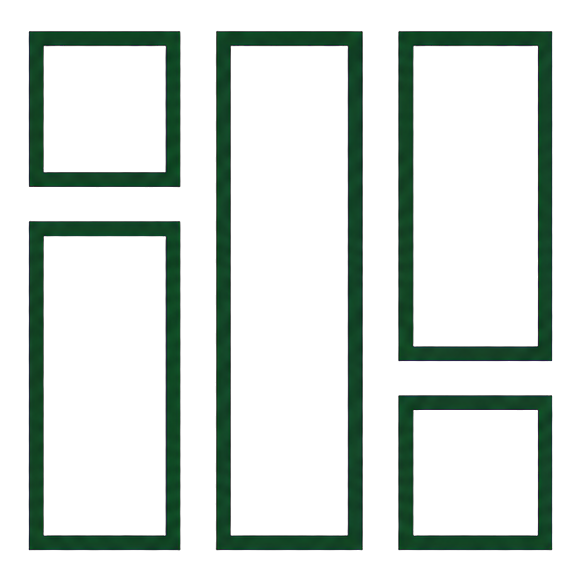
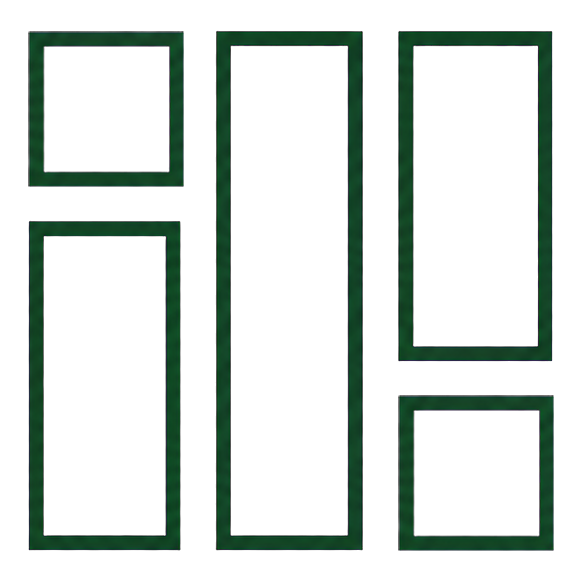
feat(homepage): refine brand education and hardware hero

Changed region(s): [[0.031, 0.031, 0.3408, 0.3098], [0.6816, 0.6816, 0.9604, 0.9604]]

diff --git a/app/page.tsx b/app/page.tsx
@@ -2,10 +2,8 @@ import Image from "next/image";
 import Link from "next/link";
 import {
   ArrowRight,
-  Building2,
   Code2,
   Github,
-  GraduationCap,
   Mail,
   Microchip,
   PlayCircle,
@@ -18,6 +16,21 @@ import { SectionHeading } from "@/components/section-heading";
 import { TechnicalVisual } from "@/components/technical-visual";
 import { getFeaturedProjects, getMediaItems, getNotes } from "@/lib/content";
 import { site } from "@/lib/site";
+
+function EducationMark({ school }: { school: "ntu" | "xjtlu" | "liverpool" }) {
+  const marks = {
+    ntu: { src: "/education/ntu-logo.png", width: 839, height: 1079 },
+    xjtlu: { src: "/education/xjtlu-logo.png", width: 56, height: 69 },
+    liverpool: { src: "/education/liverpool-crest.svg", width: 97, height: 145 }
+  } as const;
+  const mark = marks[school];
+
+  return (
+    <span className="mt-0.5 flex h-11 w-9 shrink-0 items-start justify-center" aria-hidden="true">
+      <Image src={mark.src} alt="" width={mark.width} height={mark.height} className="h-11 w-auto object-contain" />
+    </span>
+  );
+}
 
 export default function Home() {
   const featuredProjects = getFeaturedProjects();
@@ -51,36 +64,54 @@ export default function Home() {
               />
             </p>
             <div className="mt-8 h-px w-12 bg-copper" />
-            <div className="mt-8 grid gap-5 text-sm text-ink sm:grid-cols-2">
+            <div className="mt-8 grid gap-5 text-sm text-ink">
               <div className="flex min-w-0 items-start gap-3">
-                <Building2 className="mt-1 shrink-0 text-ink" size={26} strokeWidth={1.7} />
+                <EducationMark school="ntu" />
                 <div className="min-w-0">
                   <p className="font-semibold">
-                    <BilingualText en="Nanyang Technological University, Singapore" zh="新加坡南洋理工大学" />
+                    <BilingualText en="Nanyang Technological University, Singapore" zh="南洋理工大学·新加坡" />
                   </p>
                   <p className="mt-1 min-w-0 break-words text-xs text-graphite">
                     <BilingualText
-                      en="School of Mechanical and Aerospace Engineering · Master of Science (Robotics and Intelligent Systems) · Current student"
-                      zh="机械与航空航天工程学院 · 机器人与智能系统理学硕士在读"
+                      en="Master of Science (Robotics and Intelligent Systems) · Current student"
+                      zh="机器人与智能系统理学硕士 · 在读"
                     />
                   </p>
                 </div>
               </div>
-              <div className="flex min-w-0 items-start gap-3">
-                <GraduationCap className="mt-1 shrink-0 text-ink" size={26} strokeWidth={1.7} />
-                <div className="min-w-0">
-                  <p className="font-semibold">
-                    <BilingualText en="Xi'an Jiaotong-Liverpool University" zh="西交利物浦大学" />
-                  </p>
-                  <p className="mt-1 text-xs text-graphite">
-                    <BilingualText
-                      en="School of Advanced Technology · BEng (Hons) Telecommunications Engineering"
-                      zh="智能工程学院 · 通信工程本科"
-                    />
-                  </p>
-                  <p className="mt-1 text-xs font-semibold text-copper">
-                    <BilingualText en="First Class Honours" zh="一等荣誉学位" />
-                  </p>
+              <div className="border-t border-line pt-4">
+                <p className="mb-4 text-[11px] font-semibold uppercase tracking-[0.16em] text-copper">
+                  <BilingualText en="Dual-degree undergraduate awards" zh="本科双学位" />
+                </p>
+                <div className="grid gap-5 sm:grid-cols-2">
+                  <div className="flex min-w-0 items-start gap-3">
+                    <EducationMark school="xjtlu" />
+                    <div className="min-w-0">
+                      <p className="font-semibold">
+                        <BilingualText en="Xi'an Jiaotong-Liverpool University, China" zh="西交利物浦大学·中国" />
+                      </p>
+                      <p className="mt-1 min-w-0 break-words text-xs text-graphite">
+                        <BilingualText en="BEng Telecommunications Engineering" zh="通信工程工学学士" />
+                      </p>
+                    </div>
+                  </div>
+                  <div className="flex min-w-0 items-start gap-3">
+                    <EducationMark school="liverpool" />
+                    <div className="min-w-0">
+                      <p className="font-semibold">
+                        <BilingualText en="University of Liverpool, United Kingdom" zh="利物浦大学·英国" />
+                      </p>
+                      <p className="mt-1 min-w-0 break-words text-xs text-graphite">
+                        <BilingualText
+                          en="BEng (Hons) Telecommunications Engineering"
+                          zh="通信工程工学学士（荣誉）"
+                        />
+                      </p>
+                      <p className="mt-1 text-xs font-semibold text-copper">
+                        <BilingualText en="First Class Honours" zh="一等荣誉学位" />
+                      </p>
+                    </div>
+                  </div>
                 </div>
               </div>
             </div>

diff --git a/components/technical-visual.tsx b/components/technical-visual.tsx
@@ -7,34 +7,60 @@ type TechnicalVisualProps = {
 
 export function TechnicalVisual({ className }: TechnicalVisualProps) {
   return (
-    <div className={clsx("grid w-full max-w-[calc(100vw-2.5rem)] min-w-0 gap-3 overflow-hidden sm:max-w-full sm:grid-cols-[1fr_0.48fr]", className)}>
-      <div className="relative min-h-[330px] overflow-hidden rounded-lg border border-line bg-chalk">
-        <Image
-          src="/uploads/visuals/circuit-board.svg"
-          alt="Robotic control board illustration"
-          fill
-          priority
-          sizes="(min-width: 1024px) 45vw, 100vw"
-          className="object-cover"
-        />
-      </div>
-      <div className="grid gap-3">
-        <div className="relative min-h-[158px] overflow-hidden rounded-lg border border-line bg-[#13201b]">
+    <div
+      className={clsx(
+        "grid w-full max-w-[calc(100vw-2.5rem)] min-w-0 gap-3 overflow-hidden sm:h-[430px] sm:max-w-full sm:self-center sm:grid-rows-[1.25fr_1fr] lg:h-[520px]",
+        className
+      )}
+    >
+      <div className="grid min-h-[190px] grid-cols-2 gap-3 sm:min-h-0">
+        <div className="relative overflow-hidden rounded-lg border border-line bg-paper">
           <Image
-            src="/uploads/visuals/dashboard.svg"
-            alt="Embedded control dashboard illustration"
+            src="/uploads/hero/embedded-controller-isolated-tight-v3.webp"
+            alt="Embedded controller board with a 0.96-inch OLED display"
             fill
-            sizes="(min-width: 1024px) 20vw, 100vw"
-            className="object-cover"
+            loading="eager"
+            sizes="(min-width: 1024px) 28vw, 50vw"
+            className="object-contain object-center"
           />
         </div>
-        <div className="relative min-h-[158px] overflow-hidden rounded-lg border border-line bg-chalk">
+        <div className="relative overflow-hidden rounded-lg border border-line bg-paper">
           <Image
-            src="/uploads/visuals/lab-notes.svg"
-            alt="Hardware bring-up notebook illustration"
+            src="/uploads/hero/hardware-prototype-isolated-tight-v3.webp"
+            alt="Embedded hardware prototype with a TFT display, camera, and physical controls"
             fill
-            sizes="(min-width: 1024px) 20vw, 100vw"
-            className="object-cover"
+            loading="eager"
+            sizes="(min-width: 1024px) 28vw, 50vw"
+            className="object-contain object-center"
+          />
+        </div>
+      </div>
+      <div className="grid min-h-[130px] grid-cols-3 gap-3 sm:min-h-0">
+        <div className="relative overflow-hidden rounded-lg border border-line bg-paper">
+          <Image
+            src="/uploads/hero/battery-power-isolated-tight-v3.webp"
+            alt="Battery-powered electronics prototype with a USB power board"
+            fill
+            sizes="(min-width: 1024px) 19vw, 34vw"
+            className="object-contain object-center"
+          />
+        </div>
+        <div className="relative overflow-hidden rounded-lg border border-line bg-paper">
+          <Image
+            src="/uploads/hero/power-supply-board-isolated-tight-v1.webp"
+            alt="Custom 12 V, 5 V, and 3.3 V power-supply board"
+            fill
+            sizes="(min-width: 1024px) 19vw, 34vw"
+            className="object-contain object-center"
+          />
+        </div>
+        <div className="relative overflow-hidden rounded-lg border border-line bg-paper">
+          <Image
+            src="/uploads/hero/ad831-mixer-cutout-v1.png"
+            alt="AD831 mixer board with SMA connectors"
+            fill
+            sizes="(min-width: 1024px) 19vw, 34vw"
+            className="object-contain object-center drop-shadow-[0_8px_8px_rgba(23,32,29,0.18)]"
           />
         </div>
       </div>

diff --git a/app/about/page.tsx b/app/about/page.tsx
@@ -45,8 +45,8 @@ export default function AboutPage() {
         <section>
           <p className="text-xl leading-9 text-ink">
             <BilingualText
-              en="I’m Alvin Li, currently pursuing the Master of Science (Robotics and Intelligent Systems) at the School of Mechanical and Aerospace Engineering, Nanyang Technological University, Singapore. I hold a BEng (Hons) in Telecommunications Engineering with First Class Honours from Xi'an Jiaotong-Liverpool University."
-              zh="我是 Alvin Li，现于新加坡南洋理工大学机械与航空航天工程学院攻读机器人与智能系统理学硕士；本科毕业于西交利物浦大学通信工程专业，获一等荣誉学位。"
+              en="I’m Alvin Li, currently pursuing the Master of Science (Robotics and Intelligent Systems) at Nanyang Technological University, Singapore. Through XJTLU’s dual-degree programme, I hold a BEng in Telecommunications Engineering from Xi'an Jiaotong-Liverpool University and a BEng (Hons) in Telecommunications Engineering with First Class Honours from the University of Liverpool."
+              zh="我是 Alvin Li，现于新加坡南洋理工大学攻读机器人与智能系统理学硕士。本科阶段通过西交利物浦大学双学位项目，获得西交利物浦大学通信工程工学学士学位，以及英国利物浦大学通信工程荣誉工学学士学位（一等荣誉）。"
             />
           </p>
           <p className="mt-5 leading-8 text-graphite">

diff --git a/components/logo.tsx b/components/logo.tsx
@@ -4,7 +4,7 @@ import { BilingualText } from "@/components/bilingual-text";
 
 export function Logo() {
   return (
-    <Link href="/" className="group flex min-w-0 items-center gap-3" aria-label="Home">
+    <Link href="/" className="group flex min-w-0 items-center gap-3" aria-label="iRidium home">
       <Image
         src="/brand/iridium-mark.png"
         alt=""
@@ -15,8 +15,16 @@ export function Logo() {
         className="h-11 w-11 shrink-0 object-contain transition-transform duration-300 group-hover:scale-105"
       />
       <span className="min-w-0 leading-tight">
-        <span className="block truncate text-sm font-semibold text-ink">
-          <BilingualText en="iRidium" zh="铱" />
+        <span className="block h-[26px]">
+          <Image
+            src="/brand/iridium-wordmark-script.png"
+            alt=""
+            width={1417}
+            height={363}
+            sizes="102px"
+            loading="eager"
+            className="h-[26px] w-auto object-contain object-left"
+          />
         </span>
         <span className="block truncate text-xs text-graphite">
           <BilingualText en="Alvin Li · Robotic systems hardware" zh="Alvin Li · 机器人系统硬件" />

diff --git a/MEMORY.md b/MEMORY.md
@@ -66,6 +66,7 @@ This file is for future AI sessions and long-running portfolio maintenance. Keep
 - `2026-08-15`: Pull request #23 merged the approved pre-PR20 prose maintenance into `main` at `c89b3b0df031cc2cacfd519c95fb2de522c0b54d`. Digital Clock, Smart Car, DIY Cooling, Tianjin STM32, and the model-authored Nanjing Turing copy received an evidence-preserving L1 surface cleanup. The writer then gained a tested direct-prose rule, followed by the user-reviewed second pass on the Digital Clock and Smart Car project/note pairs plus the Nanjing Turing project page. This was narrow cleanup rather than a new cognition-led rewrite. FOC, Claude Chime, Juanyun thermal, the four Nanjing source-document notes, covers, public uploads, and application code were unchanged. The published set remains 8 projects, 24 notes, and 78 media items.
 - `2026-08-16`: Pull request #25 merged the approved bilingual sensorless FOC refactor into `main` at `df5b91322a09f00cf0f813dacd8b871f91cba47f`, bringing the public set to 8 projects, 24 notes, and 84 media items. FOC is now an independent personal learning route with project slug `sensorless-foc-learning-route`, note slug `sensorless-foc-handoff`, 22 curated public files, and permanent redirects from the two legacy slugs. The demonstrated boundary is 12 V, 30–80 Hz EC11-controlled open-loop compressor operation; the same-compressor six-step comparison remains subjective, plausible EKF speed does not prove rotor-angle takeover, and sensorless closed loop remains future work. The full firmware stays external at `https://github.com/Awes0meE/STM32_Sensorless_FOC`.
 - `2026-08-17`: Pull request #27 merged the first homepage optimization stage into `main` at `e4e3b3ef11c8ac49fbe7c343492822e28bb4650b`. It unified public identity and SEO metadata under `Alvin Li`, adopted `iRidium / 铱` as the engineering archive brand, added a compact mobile navigation row, removed the duplicate homepage About block, and replaced broad direction labels with an evidence-backed engineering stack. The English brand spelling is fixed as `iRidium`: lowercase `i`, uppercase `R`, lowercase `idium`. Previous personal aliases and the old lab label no longer appear as reader-facing identity names; the existing GitHub URL remains functional behind a generic GitHub label. Education labels now use NTU's official `Master of Science (Robotics and Intelligent Systems)` and XJTLU's `BEng (Hons) Telecommunications Engineering`; the user-confirmed classification is `First Class Honours`. Public contact surfaces now include GitHub and `ZHIYI012@e.ntu.edu.sg`, superseding the prior GitHub-only boundary. The user approved the square five-rectangle iRidium mark reconstructed from the supplied sketch; transparent lockup and square header assets now live under `public/brand/`, and the square mark replaces the previous temporary header graphic.
+- `2026-08-18`: Refined the homepage header, education block, institution marks, and hardware hero on `fix/header-branding-education`. The upper-left and lower-right blocks in the iRidium mark now have equal `156 × 156` pixel bounds. The header uses the user-selected B-style transparent script asset `public/brand/iridium-wordmark-script.png`, displayed at a compact 26px height, and always reads `iRidium` in both language modes. The education block uses a full-width NTU master's row above a two-column undergraduate dual-degree row: XJTLU `BEng Telecommunications Engineering` and University of Liverpool `BEng (Hons) Telecommunications Engineering`, with `First Class Honours` attached only to the Liverpool degree; transparent official-style institution marks replace the generic icons. The homepage hero is a five-card hardware mosaic: the 0.96-inch OLED and TFT-display assemblies form the upper row, with the battery/USB power board, 12 V / 5 V / 3.3 V power-supply board, and AD831 mixer below. Its warm-paper background-replacement derivatives are presentation assets rather than exact technical evidence. This branch remains local and unreleased until it is committed, pushed, reviewed, and merged.
 
 ## Stable Decisions
 
@@ -76,6 +77,7 @@ This file is for future AI sessions and long-running portfolio maintenance. Keep
 - Use Conventional Commits for commit messages. Name topic branches `<semantic-prefix>/<kebab-case-purpose>` with a Conventional Commits-aligned prefix, and never encode Codex, agent, AI, bot, or other author/tool identity in the branch name. Keep existing/native worktree placement; a manually chosen worktree directory may omit the semantic prefix.
 - Keep content Git-friendly: projects and notes live in `content/**/*.mdx`; media metadata lives in `content/media.json`; assets live under `public/uploads/`.
 - Treat project covers and other visual-identity choices as user-controlled. Preserve `cover`, visual assets, and their presentation role during prose/content rewrites unless the user explicitly requests or approves a visual change.
+- Keep `public/uploads/hero/` limited to the five final homepage hardware assets referenced by `components/technical-visual.tsx`. Background-replaced versions are visual presentation derivatives only; use original photographs, drawings, Gerbers, or other direct artifacts for project-level evidence.
 - Use optional `projectSlug` on notes and media to connect project pages, related notes, related media, and note back-links.
 - Use optional project `assetPaths` to render public project evidence from `public/uploads/` on project detail pages. Keep filesystem resolution, path normalization, strict UTF-8 reads, Juanyun allowlist filtering, directory recursion caps, file-count caps, and aggregate preview-size caps server-side in `components/project-assets.tsx`; pass only serializable asset metadata/content into the client-side browser. The browser previews images/videos, Markdown/text, source code, and PDFs, while binary documents / CAD / EDA / fabrication archives keep direct open links.
 - Keep project detail sections ordered as project body, development notes, public project files, then related media. This keeps the narrative and note trail above the file archive.
@@ -105,7 +107,7 @@ This file is for future AI sessions and long-running portfolio maintenance. Keep
 ## Site Identity
 
 - Primary public identity and metadata: `Alvin Li`. `iRidium / 铱` is the engineering archive brand. The capitalization `iRidium` is immutable: lowercase `i`, uppercase `R`, lowercase `idium`. Previous aliases and the old lab name should not appear as reader-facing identity labels.
-- Approved visual mark: five rectilinear outlined blocks constrained to a square boundary, with one uninterrupted full-height centre rectangle. Use `public/brand/iridium-mark.png` in the site header and keep `public/brand/iridium-logo-lockup.png` as the transparent full lockup.
+- Approved visual mark: five rectilinear outlined blocks constrained to a square boundary, with one uninterrupted full-height centre rectangle and equal upper-left/lower-right square bounds. Use `public/brand/iridium-mark.png` in the site header, pair it with the selected B-style script asset at `public/brand/iridium-wordmark-script.png` at the approved 26px display height, and keep `public/brand/iridium-logo-lockup.png` as the matching transparent full lockup.
 - Public contact routes: GitHub and `ZHIYI012@e.ntu.edu.sg`; location remains omitted.
 - Visual tone: engineering academic, precise, bilingual, clean, evidence-driven.
 - Avoid returning to generic template-blog styling.
@@ -114,7 +116,8 @@ This file is for future AI sessions and long-running portfolio maintenance. Keep
 
 - `app/page.tsx`: homepage layout and major public-facing sections.
 - `app/layout.tsx`: root layout, metadata, language bootstrap script, header/footer shell.
-- `components/logo.tsx`: approved iRidium header mark and responsive bilingual wordmark.
+- `components/logo.tsx`: approved iRidium header mark and the user-selected B-style script wordmark from `public/brand/iridium-wordmark-script.png`; the wordmark is a portable transparent asset and does not switch to `铱` in Chinese mode.
+- `components/technical-visual.tsx`: responsive two-over-three homepage hardware mosaic; the two display-equipped assemblies stay on the upper row and the three remaining boards stay on the lower row.
 - `components/site-header.tsx`: desktop and compact mobile navigation shell.
 - `components/language-toggle.tsx`: client-side EN/简中 language switch.
 - `components/bilingual-text.tsx`: paired English/Chinese text rendering.
@@ -129,7 +132,7 @@ This file is for future AI sessions and long-running portfolio maintenance. Keep
 - `content/notes/`: learning note source files.
 - `content/media.json`: gallery metadata.
 - `public/uploads/`: images, videos, and downloadable assets.
-- `public/brand/`: approved transparent iRidium mark and full logo lockup.
+- `public/brand/`: approved transparent iRidium mark, user-selected B-style script wordmark, and matching full logo lockup.
 - `docs/content-workflow.md`: how to add and maintain portfolio content.
 - `docs/environment-toolchain.md`: Node/npm, Git restore, PowerShell, local preview, screenshot tooling, encoding, and Vercel setup.
 - `docs/juanyun-tech-source-inventory.md`: mapping from the raw Juanyun source folder to public portfolio content and excluded private material.

diff --git a/README.md b/README.md
@@ -6,7 +6,7 @@ English | [中文](#中文说明)
 
 This repository contains the source code for Alvin Li's bilingual robotic systems hardware portfolio, with iRidium / 铱 as the engineering archive brand. It organizes projects, notes, and media around embedded control, schematic and PCB design, board bring-up, hardware–firmware integration, motor drives, and power electronics.
 
-Alvin Li is currently pursuing the Master of Science (Robotics and Intelligent Systems) at the School of Mechanical and Aerospace Engineering, Nanyang Technological University, Singapore. He holds a BEng (Hons) in Telecommunications Engineering with First Class Honours from Xi'an Jiaotong-Liverpool University.
+Alvin Li is currently pursuing the Master of Science (Robotics and Intelligent Systems) at Nanyang Technological University, Singapore. Through XJTLU's dual-degree programme, he holds a BEng in Telecommunications Engineering from Xi'an Jiaotong-Liverpool University and a BEng (Hons) in Telecommunications Engineering with First Class Honours from the University of Liverpool.
 
 The old deployed Hexo output is preserved under `legacy/hexo-export/` for reference only. It is not served by the new application.
 
@@ -147,8 +147,9 @@ Important privacy rule: `visibility: private` hides a note from the website, but
 Current workspace content state:
 
 - The sitewide public identity and SEO metadata use Alvin Li. The exact English brand spelling is always `iRidium`—lowercase `i`, uppercase `R`, then lowercase `idium`. iRidium / 铱 is the engineering archive brand; the previous public aliases no longer appear as reader-facing identity labels.
-- The approved iRidium mark uses five rectilinear outlined blocks inside a square boundary: two left blocks, one uninterrupted full-height centre rectangle, and two right blocks. The transparent lockup and square header mark live under `public/brand/`; the header uses the square mark beside the responsive bilingual wordmark.
-- Education labels use the official programme names: NTU's Master of Science (Robotics and Intelligent Systems) at the School of Mechanical and Aerospace Engineering, and XJTLU's BEng (Hons) Telecommunications Engineering with First Class Honours.
+- The approved iRidium mark uses five rectilinear outlined blocks inside a square boundary: two left blocks, one uninterrupted full-height centre rectangle, and two right blocks, with equal square bounds for the upper-left and lower-right blocks. The transparent lockup, square header mark, and user-selected B-style script wordmark live under `public/brand/`; the header serves the wordmark as a portable transparent asset so it stays visually identical in both language modes and across devices.
+- The homepage education block uses one full-width NTU row and a second two-column row for XJTLU's dual-degree undergraduate awards. It lists `BEng Telecommunications Engineering` from Xi'an Jiaotong-Liverpool University and `BEng (Hons) Telecommunications Engineering` with `First Class Honours` from the University of Liverpool.
+- The homepage hero uses a responsive five-card hardware mosaic: the 0.96-inch OLED controller and TFT-display assembly are shown in the upper row, with the battery/USB power board, custom multi-rail power-supply board, and AD831 mixer in the lower row. Warm-paper background replacements under `public/uploads/hero/` are presentation derivatives, not substitutes for original technical evidence.
 - Reader-facing contact surfaces expose GitHub and `ZHIYI012@e.ntu.edu.sg`; location remains omitted.
 - `main` has removed the old portfolio rebuild project, PID Starter Kit placeholder project, and several thin Juanyun standalone project pages.
 - The Juanyun ACUnit, BaseUnit, DHT11 / AM2302, actuator/fan, and SOP material is consolidated into the larger Juanyun thermal-management archive.
@@ -221,7 +222,7 @@ git push origin v0.7.1
 
 这个仓库是 Alvin Li 的英中双语机器人系统硬件作品集源码，iRidium / 铱 作为工程档案品牌。项目、笔记和媒体内容围绕嵌入式控制、原理图与 PCB 设计、板级 bring-up、软硬件联调、电机驱动和电力电子展开。
 
-Alvin Li 现于新加坡南洋理工大学机械与航空航天工程学院攻读机器人与智能系统理学硕士；本科毕业于西交利物浦大学通信工程专业，获一等荣誉学位。
+Alvin Li 现于新加坡南洋理工大学攻读机器人与智能系统理学硕士；本科阶段通过西交利物浦大学双学位项目，获得西交利物浦大学通信工程工学学士学位，以及英国利物浦大学通信工程荣誉工学学士学位（一等荣誉）。
 
 旧版 Hexo 输出保存在 `legacy/hexo-export/`，只作为历史参考，不再作为新网站的服务内容。
 
@@ -333,8 +334,9 @@ npm run validate-encoding # 检查 Git 管理的文本文件是否都是干净 U
 当前工作区内容状态：
 
 - 全站公开姓名与 SEO 元数据统一使用 Alvin Li；英文品牌必须严格写作 `iRidium`，即小写 `i`、大写 `R`、其余 `idium` 小写。iRidium / 铱 作为工程档案品牌，旧公开别名不再作为面向读者的身份标签。
-- 已确认的 iRidium 图形由正方形边界内的五个直角矩形轮廓构成：左侧两块、中央一根不分割的通长矩形、右侧两块。透明完整锁定稿与页头正方形标记保存在 `public/brand/`；页头使用正方形标记，并保留响应式双语品牌文字。
-- 教育经历采用正式项目名称：南洋理工大学机械与航空航天工程学院机器人与智能系统理学硕士在读，以及西交利物浦大学通信工程本科、一等荣誉学位。
+- 已确认的 iRidium 图形由正方形边界内的五个直角矩形轮廓构成：左侧两块、中央一根不分割的通长矩形、右侧两块，其中左上角与右下角使用相同的正方形边界。透明完整锁定稿、页头正方形标记和用户选定的 B 款花体字标保存在 `public/brand/`；页头直接加载透明字标资产，因此在中英文模式和不同设备上都保持同一个英文 `iRidium` 外观。
+- 首页教育区第一行显示“南洋理工大学·新加坡”及机器人与智能系统理学硕士在读；第二行以双栏展示本科双学位：西交利物浦大学通信工程工学学士，以及英国利物浦大学通信工程荣誉工学学士（一等荣誉）。
+- 首页 Hero 使用响应式五图硬件拼贴：上排是带 0.96 英寸 OLED 的控制板和 TFT 彩屏组合机，下排是电池 / USB 电源板、自制多路电源板与 AD831 混频板。`public/uploads/hero/` 下的暖白背景版本只用于首页展示，不能替代原始照片或工程文件作为技术证据。
 - 面向读者的联系入口公开 GitHub 与 `ZHIYI012@e.ntu.edu.sg`，不公开所在地。
 - `main` 已删除旧的作品集重构项目、PID Starter Kit 占位项目，以及几个较薄的卷云独立项目页。
 - 卷云 ACUnit、BaseUnit、DHT11 / AM2302、执行器 / 风扇和 SOP 材料已合并到更大的热管理硬件与固件开发档案页。

diff --git a/docs/session-log.md b/docs/session-log.md
@@ -533,3 +533,10 @@ Append-only chronology for meaningful project milestones. Keep detailed current 
 - Files changed: unified reader-facing identity and metadata under Alvin Li; adopted the exact `iRidium / 铱` brand spelling; added the approved transparent five-rectangle header mark, compact mobile navigation, official NTU/XJTLU programme labels, First Class Honours, professional technical-stack copy, and the public NTU email; shortened the homepage by removing its duplicate About block. The cleanup then removed stale identity and unfinished-brand wording from current human/agent documentation while preserving historical records and functional repository/domain URLs.
 - Git state: pull request #27 used head `172e1704a52257631f51dcfbd85a489acb7523a5` and merged into `main` at `e4e3b3ef11c8ac49fbe7c343492822e28bb4650b`; the documentation reconciliation proceeds from that synchronized merge on `docs/neat-iridium-homepage-release`.
 - Verification: `git diff --check`, lint, content validation for 8 projects / 24 notes / 84 media records, encoding validation for 289 UTF-8 text files, typecheck, the 39-page webpack production build, desktop/mobile bilingual browser review, Vercel checks, exact-SHA merge, and branch cleanup passed before the documentation reconciliation.
+
+## 2026-08-18
+
+- Summary: Refined the iRidium header identity, homepage institution labels, institution marks, and hardware hero, then ran `/neat` to synchronize current documentation and memory.
+- Files changed: made the mark's upper-left and lower-right blocks equal `156 × 156` squares; added the user-selected B-style transparent `iRidium` wordmark and reduced its rendered height to 26px; kept the English brand name fixed across language modes; and rebuilt the homepage education block as one full-width NTU master's row above a two-column undergraduate dual-degree row. The undergraduate row lists separate XJTLU and University of Liverpool telecommunications-engineering degrees and attaches `First Class Honours` only to the Liverpool award; transparent institution marks replace the generic education icons. The former abstract hero was replaced by a responsive five-card hardware mosaic with the OLED and TFT-display assemblies above the battery/USB power board, multi-rail power board, and AD831 mixer. The photographic cards use warm-paper backgrounds and restrained shadows; the generated background-replacement derivatives are documented as presentation assets rather than technical evidence. The About page, matching full lockup, and current human/agent documentation were synchronized.
+- Git state: the reviewed changes remain local and uncommitted on `fix/header-branding-education`; no pull request, merge, or deployment is claimed.
+- Verification: lint, content validation for 8 projects / 24 notes / 84 media records, encoding validation for 290 UTF-8 text files, typecheck, the 39-page webpack production build, desktop/mobile bilingual browser review, logo geometry inspection, five-image loading checks, and diff checks passed. `npm audit --omit=dev` could not be refreshed because the sandbox blocked npm-registry access and approval to transmit dependency metadata was rejected; this change does not modify dependencies or the lockfile.

diff --git a/USER_GUIDE.md b/USER_GUIDE.md
@@ -118,6 +118,22 @@ Long note or project body text is not automatically machine-translated. If a lon
 
 长篇项目正文和笔记正文不会自动机翻。如果某篇文章需要完整中英双语，需要手动编辑对应的 MDX 内容。
 
+## Header Brand And Homepage Education
+
+The header brand is always the English wordmark `iRidium`; switching the site to Chinese does not replace it with `铱`. Its approved mark and transparent B-style script wordmark live under `public/brand/`. Keep the upper-left and lower-right blocks of the mark equal in size and preserve the compact 26px wordmark height.
+
+The homepage education block uses a full-width row for `Nanyang Technological University, Singapore`, followed by a two-column undergraduate row labelled as dual-degree awards. The two undergraduate degrees are listed separately under Xi'an Jiaotong-Liverpool University and the University of Liverpool; `First Class Honours` belongs to the University of Liverpool degree.
+
+The homepage hardware hero is maintained in `components/technical-visual.tsx` as a fixed two-over-three mosaic. The OLED and TFT-display images belong on the upper row; the battery power board, multi-rail power board, and AD831 mixer belong on the lower row. Final web assets live under `public/uploads/hero/`. The warm-background versions are visual presentation derivatives and should not be reused as close-up engineering evidence.
+
+## 页头品牌与首页学校信息
+
+页头品牌名始终使用英文 `iRidium`，切换到中文界面也不会变成“铱”。已确认的图形标记和 B 款透明花体字标保存在 `public/brand/`；维护时要保持图形左上角与右下角方块等大，并保留字标 26px 的紧凑显示高度。
+
+首页教育区第一行显示南洋理工大学及硕士在读信息，第二行以双栏明确展示西交利物浦大学与英国利物浦大学授予的本科双学位；“一等荣誉学位”归在英国利物浦大学学位下。
+
+首页硬件 Hero 固定为“上二下三”拼贴，由 `components/technical-visual.tsx` 维护：OLED 与 TFT 彩屏项目放在上排，电池电源板、多路电源板和 AD831 混频板放在下排。最终网页素材保存在 `public/uploads/hero/`。暖白背景版本属于视觉展示衍生图，不应作为工程细节证据重复使用。
+
 ## How To Modify Text
 
 Most portfolio content is stored as text files.

diff --git a/docs/architecture.md b/docs/architecture.md
@@ -61,10 +61,12 @@ Media:
 
 - JSON object with thumbnail, source path, caption, optional Chinese title/caption, date, and optional related project.
 
-Current content state in this workspace, extending release `v0.7.0`, as of `2026-08-17`:
+Current content state in this workspace, extending release `v0.7.0`, as of `2026-08-18`:
 
 - public identity and metadata use `Alvin Li`; the engineering archive brand is `iRidium / 铱`, with exact capitalization fixed as lowercase `i`, uppercase `R`, then lowercase `idium`;
-- the shared header uses the approved transparent five-rectangle mark from `public/brand/iridium-mark.png`, desktop navigation, and a compact mobile navigation row;
+- the shared header uses the approved transparent five-rectangle mark from `public/brand/iridium-mark.png`, with equal `156 × 156` pixel bounds for the upper-left and lower-right blocks; the user-selected B-style `iRidium` script is served from `public/brand/iridium-wordmark-script.png` at a compact 26px display height so its appearance remains fixed in both language modes and across devices, alongside desktop navigation and a compact mobile navigation row;
+- the homepage education block uses one full-width NTU master's row followed by a two-column undergraduate dual-degree row for Xi'an Jiaotong-Liverpool University and the University of Liverpool; the Liverpool `BEng (Hons) Telecommunications Engineering` carries the `First Class Honours` classification;
+- `components/technical-visual.tsx` renders the homepage hardware hero as a responsive two-over-three card grid. Its five final warm-paper assets live under `public/uploads/hero/`; the two display-equipped assemblies stay on the upper row, and background-replaced presentation derivatives are not treated as project evidence;
 - 8 project files total;
 - 24 public note files total;
 - 2 Juanyun project pages and 10 Juanyun-prefixed notes;

diff --git a/CODEX.md b/CODEX.md
@@ -231,7 +231,8 @@ Maintain the current engineering-academic identity:
 
 - precise, calm, credible, portfolio-grade;
 - Alvin Li is the sole reader-facing personal identity; `iRidium / 铱` is the engineering archive brand;
-- keep the approved five-rectangle mark from `public/brand/iridium-mark.png` in the header and preserve the exact `iRidium` capitalization;
+- keep the approved five-rectangle mark from `public/brand/iridium-mark.png` in the header, preserve equal square bounds for its upper-left and lower-right blocks, pair it with the user-selected B-style `public/brand/iridium-wordmark-script.png`, render that wordmark at the user-approved compact 26px height, and preserve the exact `iRidium` capitalization in both language modes;
+- keep the homepage hardware hero in `components/technical-visual.tsx` as the approved five-card mosaic: the 0.96-inch OLED and TFT-display assemblies occupy the two-card upper row, while the battery/USB power board, 12 V / 5 V / 3.3 V power-supply board, and AD831 mixer occupy the three-card lower row; use the warm-paper presentation derivatives under `public/uploads/hero/`, but never treat AI background-replacement derivatives as exact component, silkscreen, or fabrication evidence;
 - bilingual Chinese/English content;
 - white/paper background, fine grid, pine green, graphite, and copper accents;
 - 6-8px radius, fine borders, restrained shadows;

diff --git a/docs/content-workflow.md b/docs/content-workflow.md
@@ -108,9 +108,12 @@ Recommended structure:
 public/uploads/projects/my-project/
 public/uploads/media/
 public/uploads/profile/
+public/uploads/hero/
 ```
 
-Approved site-identity assets are kept separately under `public/brand/`. Preserve the exact `iRidium` capitalization and treat logo/brand changes as user-controlled visual-identity decisions; do not mix project evidence into that folder.
+Approved site-identity assets are kept separately under `public/brand/`. Preserve the exact `iRidium` capitalization in both language modes, keep the mark's upper-left and lower-right square bounds equal, and retain the user-selected B-style transparent wordmark at its approved compact 26px header height. Treat logo/brand changes as user-controlled visual-identity decisions; do not mix project evidence into that folder.
+
+`public/uploads/hero/` contains only the five final assets consumed by `components/technical-visual.tsx`. Keep the approved two-over-three order: OLED and TFT-display assemblies above, then battery power, multi-rail power, and AD831 mixer below. AI background-replacement outputs are presentation derivatives; project pages and technical claims must continue to use original photographs or direct engineering artifacts.
 
 Reference files with public paths:
 
